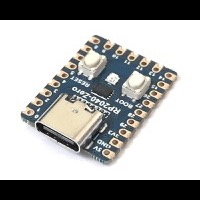
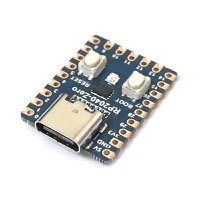
Fix RP2040-Zero photo padding to white, update CONTEXT.md

Changed region(s): [[0.0, 0.9, 1.0, 1.0], [0.0, 0.0, 1.0, 0.12]]

diff --git a/CONTEXT.md b/CONTEXT.md
@@ -8,25 +8,42 @@
 5. Updated ST7735 pin names in wiring diagram to match display board labels (SCL, RES)
 6. Added `MOTOR_MAX_SPEED 65` in `config.h` to limit PWM for FA-130 motors
 7. Applied max speed limit in `motor_set_speed()`, `motor_ramp_to()`, `motor_ramp_both()`
+8. Added bootloader reboot on long press (`reset_usb_boot`)
+9. Saved all component photos locally in `docs/`, updated README to use local paths
+10. Added TB6612FNG, LX-LCBST, LiPo, FA-130 motor photos
+11. Updated wiring diagram: TB6612FNG powered directly from LX-LCBST 5V
+12. Fixed README: pin assignments (Encoder BTN=GP4, Extra=GP16, A=GP15, B=GP14)
+13. Fixed README: renamed "Custom" strategy to "Random"
+14. Added missing components to Hardware table (FA-130, LX-LCBST, Li-Po)
 
 ## Pending changes
-- `src/main.c` — uncommitted: `reset_usb_boot(0, 0)` on long press for bootloader reboot
-- `src/config.h` — uncommitted: added `MOTOR_MAX_SPEED 65`
-- `src/motor/motor.c` — uncommitted: speed clamped to `MOTOR_MAX_SPEED`
+None — all changes committed and pushed.
 
-## Motors
-- 2x FA-130 DC motors, ∅20mm
-- Nominal voltage: 1.5–3V, max ~4.5V
-- Powered via TB6612FNG, VM=5V, PWM limited to 65% (~3.25V effective)
-- Photo: `docs/motor-fa130.jpg`
+## Hardware
+- **RP2040-Zero** — microcontroller
+- **ST7735** 128x160 — SPI display (3V3, GPIO 5-10)
+- **KY-040** — rotary encoder (GPIO 4, 14, 15, internal pull-ups)
+- **TB6612FNG** — motor driver (GPIO 2-3 PWM, VCC+VM from LX-LCBST 5V)
+- **2x FA-130** — DC motors ∅20mm, 1.5–3V, PWM limited to 65% (~3.25V)
+- **LX-LCBST** — boost converter 3.7V → 5V
+- **1S Li-Po** — 3.7V 500mAh+ battery
+
+## Photos in docs/
+- `card-shuffler.png` — шафл-машинка
+- `st7735.png` — дисплей
+- `rp2040-zero.jpg` — микроконтроллер
+- `ky040.png` — энкодер
+- `tb6612fng.jpg` — драйвер моторов
+- `motor-fa130.jpg` — мотор
+- `lx-lcbst.jpg` — boost converter
+- `lipo.jpg` — аккумулятор
+- `display-menu.gif` — меню на дисплее
 
 ## Project summary
 Card Shuffler firmware for RP2040-Zero:
-- ST7735 display (128x160, SPI)
-- Rotary encoder for navigation
-- TB6612FNG motor driver (2 motors, PWM 25kHz)
 - 6 shuffle strategies: Quick, Riffle, Strip, Wash, Box, Random
 - State machine: MENU → SHUFFLING → STOPPING
+- PWM motor control (25kHz) with soft start/stop ramping
 
 ## Build
 ```bash
